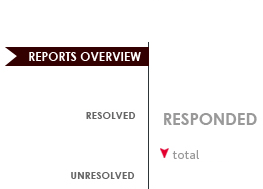
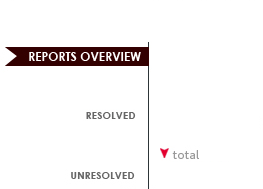
* Added the "unassinged" statistic to the main page sidebar * Removed the "Resolved" text from the main page sidebar bg image

Changed region(s): [[0.6084, 0.582, 0.9734, 0.6614]]

diff --git a/plugins/huduma/views/css/huduma.css b/plugins/huduma/views/css/huduma.css
@@ -304,7 +304,12 @@ div.dash-snapshots { margin-top: -130px; }
 
 .stat-overview-right { float: right; margin: 0; padding: 0; width: 114px; }
 
-.total-reports { float: right; margin-top: 120px; width: 114px; }
+.response-rate { float: right; width: 114px; padding-top: 15px;}
+.response-rate p { font-size: 30px; color: #CC0033; float: left; font-weight: bold; margin: 0; padding: 0 1px 0 2px; width: 85px; }
+.response-rate span { color: #CC0033; float: right; font-size: 17px; margin: 0; padding: 10px 0 0 6px; text-align: right; }
+.response-rate h3 { padding:0 0 0 5px; margin: 0; position: relative; top: 15px; color: #999999; font-family: "Trebuchet MS"; font-size: 16px; }
+
+.total-reports { float: right; padding-top: 53px; width: 114px; }
 .total-reports p { color: #00ADE7; font-size: 24px; margin: 0; padding-left: 21px; text-align: left; }
 
 #unresolvedStats, #resolvedStats { float: left; width: 145px;}

diff --git a/plugins/huduma/hooks/huduma.php b/plugins/huduma/hooks/huduma.php
@@ -416,11 +416,16 @@ class huduma
 			$stats['resolved'] += $category->resolved;
 			$stats['unresolved'] += $category->unresolved;
 		}
+		
+		$stats = array_merge($stats, array(
+			'unassigned' => $stats['total_reports'] - ($stats['unresolved'] + $stats['resolved']))
+		);
+		
 		$chart_colors = array_reverse(array("'#640235'", "'#CA669A'", "'#CC0033'"));
 		$stats_data = array(
 			$stats['resolved'], 
 			$stats['unresolved'], 
-			$stats['total_reports'] - ($stats['unresolved'] + $stats['resolved'])
+			$stats['unassigned']
 		);
 		
 		// Generate the Raphael JS
@@ -438,6 +443,11 @@ class huduma
 		if ($stats['unresolved'] > 0)
 		{
 			$stats['unresolved'] = round(($stats['unresolved']/$stats['total_reports']) * 100, 2);
+		}
+		
+		if ($stats['unassigned'] > 0)
+		{
+			$stats['unassigned'] = round(($stats['unassigned']/$stats['total_reports']) * 100, 2);
 		}
 		
 		// TODO: Compute issue resolution rate

diff --git a/plugins/huduma/views/frontend/main_page_sidebar.php b/plugins/huduma/views/frontend/main_page_sidebar.php
@@ -16,7 +16,10 @@
 			<div id="pieChartHolder">
 				<div class="stat-overview-right">
 					<div class="response-rate">
-						<p></p>
+						<p><?php echo $stats['unassigned']; ?></p>
+						<span>%</span>
+						<div style="clear: both;"></div>
+						<h3><?php echo strtoupper(Kohana::lang('ui_huduma.unassigned_reports')); ?></h3>
 					</div>
 					<div class="total-reports">
 						<p><?php echo $stats['total_reports']; ?></p>
